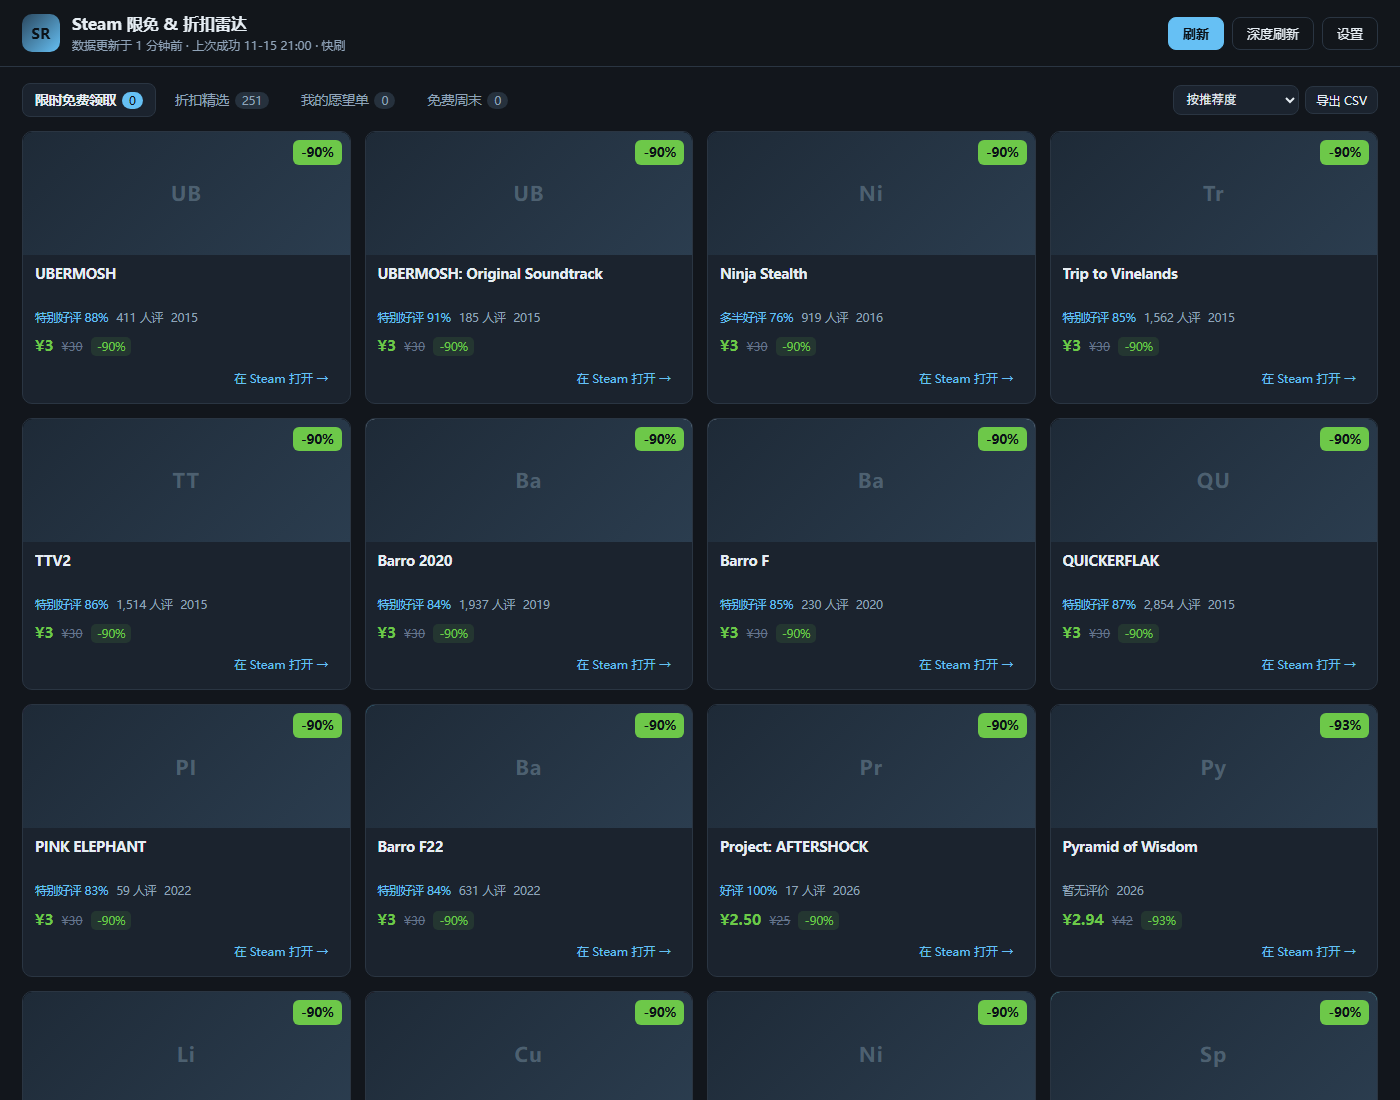
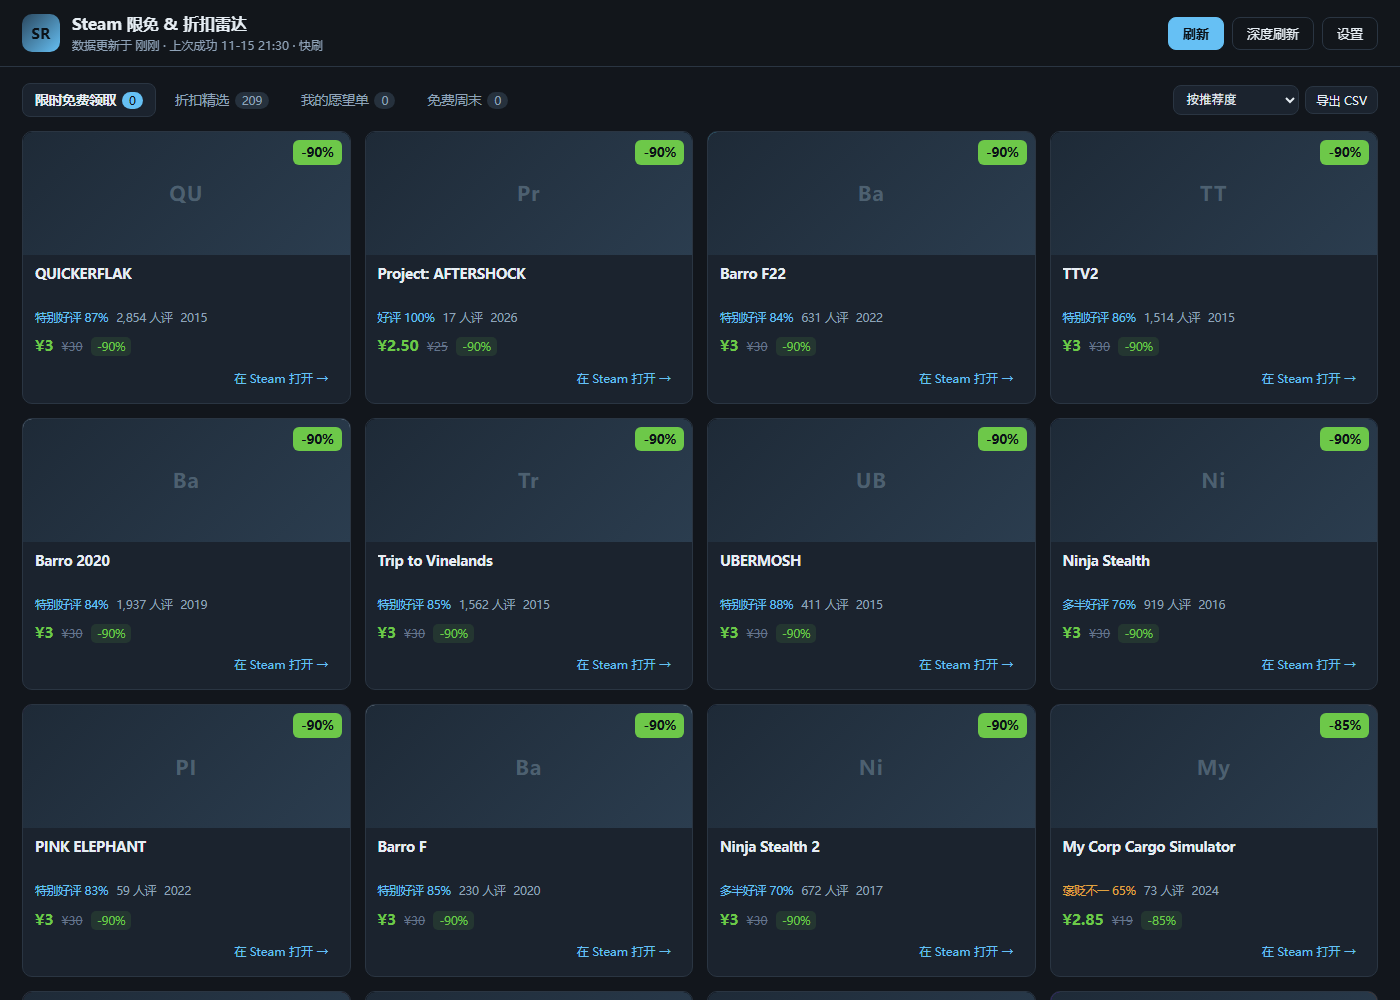
feat: 评分更重视口碑与热度，剔除原声/DLC，只展示最近一次刷新抓到的数据
- 权重改为 折扣32% 好评28% 热度25% 新鲜度15%
- 详情接口不可用时，名字像原声/DLC的直接不进推荐
- 界面只显示最近一次成功刷新内的条目，避免过期评分混入榜单

diff --git a/app/rules.py b/app/rules.py
@@ -95,17 +95,23 @@ def classify(
         else:
             ignored.append(it)
 
-    # 折扣榜打分；顺带处理「详情接口挂了」时的矮子里拔将军
+    # 折扣榜打分；顺带把「详情接口挂了时明显不是游戏的东西」剔掉
+    clean_deals: list[GameItem] = []
     for it in deals:
-        value = score(it, now)
         if it.appid not in details and EXTRA_NAME_RE.search(it.name or ""):
             it.extra["suspect_extra"] = True
-            it.extra["note"] = "名字像是原声/DLC，未能核实（详情接口不可用），已降权"
-            value *= 0.45
+            it.extra["note"] = "名字像是原声/DLC，且无法核实，已从推荐中移除"
+            ignored.append(it)
+            continue
+        value = score(it, now)
+        if 0 < (it.orig_cents or 0) < 1500:
+            value *= 0.7          # 原价本来就很低的小玩意儿，降权
         if it.appid in wishlist_appids:
             value *= 1.18
             it.extra["in_wishlist"] = True
         it.extra["score"] = round(value, 3)
+        clean_deals.append(it)
+    deals = clean_deals
 
     ftk.sort(key=lambda g: (-(g.review_pct or 0), g.name))
     deals.sort(key=lambda g: -g.extra.get("score", 0))
@@ -122,7 +128,7 @@ def score(item: GameItem, now: float | None = None) -> float:
     year = item.release_year or 0
     age = (time.gmtime(now).tm_year - year) if year else 99
     fresh = 1.0 if age <= 2 else (0.75 if age <= 5 else 0.5)
-    base = 0.45 * disc + 0.30 * review + 0.15 * volume + 0.10 * fresh
+    base = 0.32 * disc + 0.28 * review + 0.25 * volume + 0.15 * fresh
     if (
         item.review_pct is not None
         and item.review_pct < HARD_MIN_REVIEW

diff --git a/app/server.py b/app/server.py
@@ -36,6 +36,12 @@ def build_state() -> dict:
     games = db.load_games(limit=3000)
     wishlist = db.wishlist_appids()
 
+    # 只展示「最近一次成功刷新」里抓到的条目。
+    # 否则历史遗留的旧记录会带着过期的评分混进榜单，看起来像是推荐坏了。
+    if last_success:
+        cutoff = last_success - 180
+        games = [g for g in games if (g.get("updated_at") or 0) >= cutoff]
+
     ftk = [g for g in games if g["kind"] == "ftk"]
     deals = [g for g in games if g["kind"] == "deal"]
     weekend = [g for g in games if g["kind"] == "freeweekend"]
